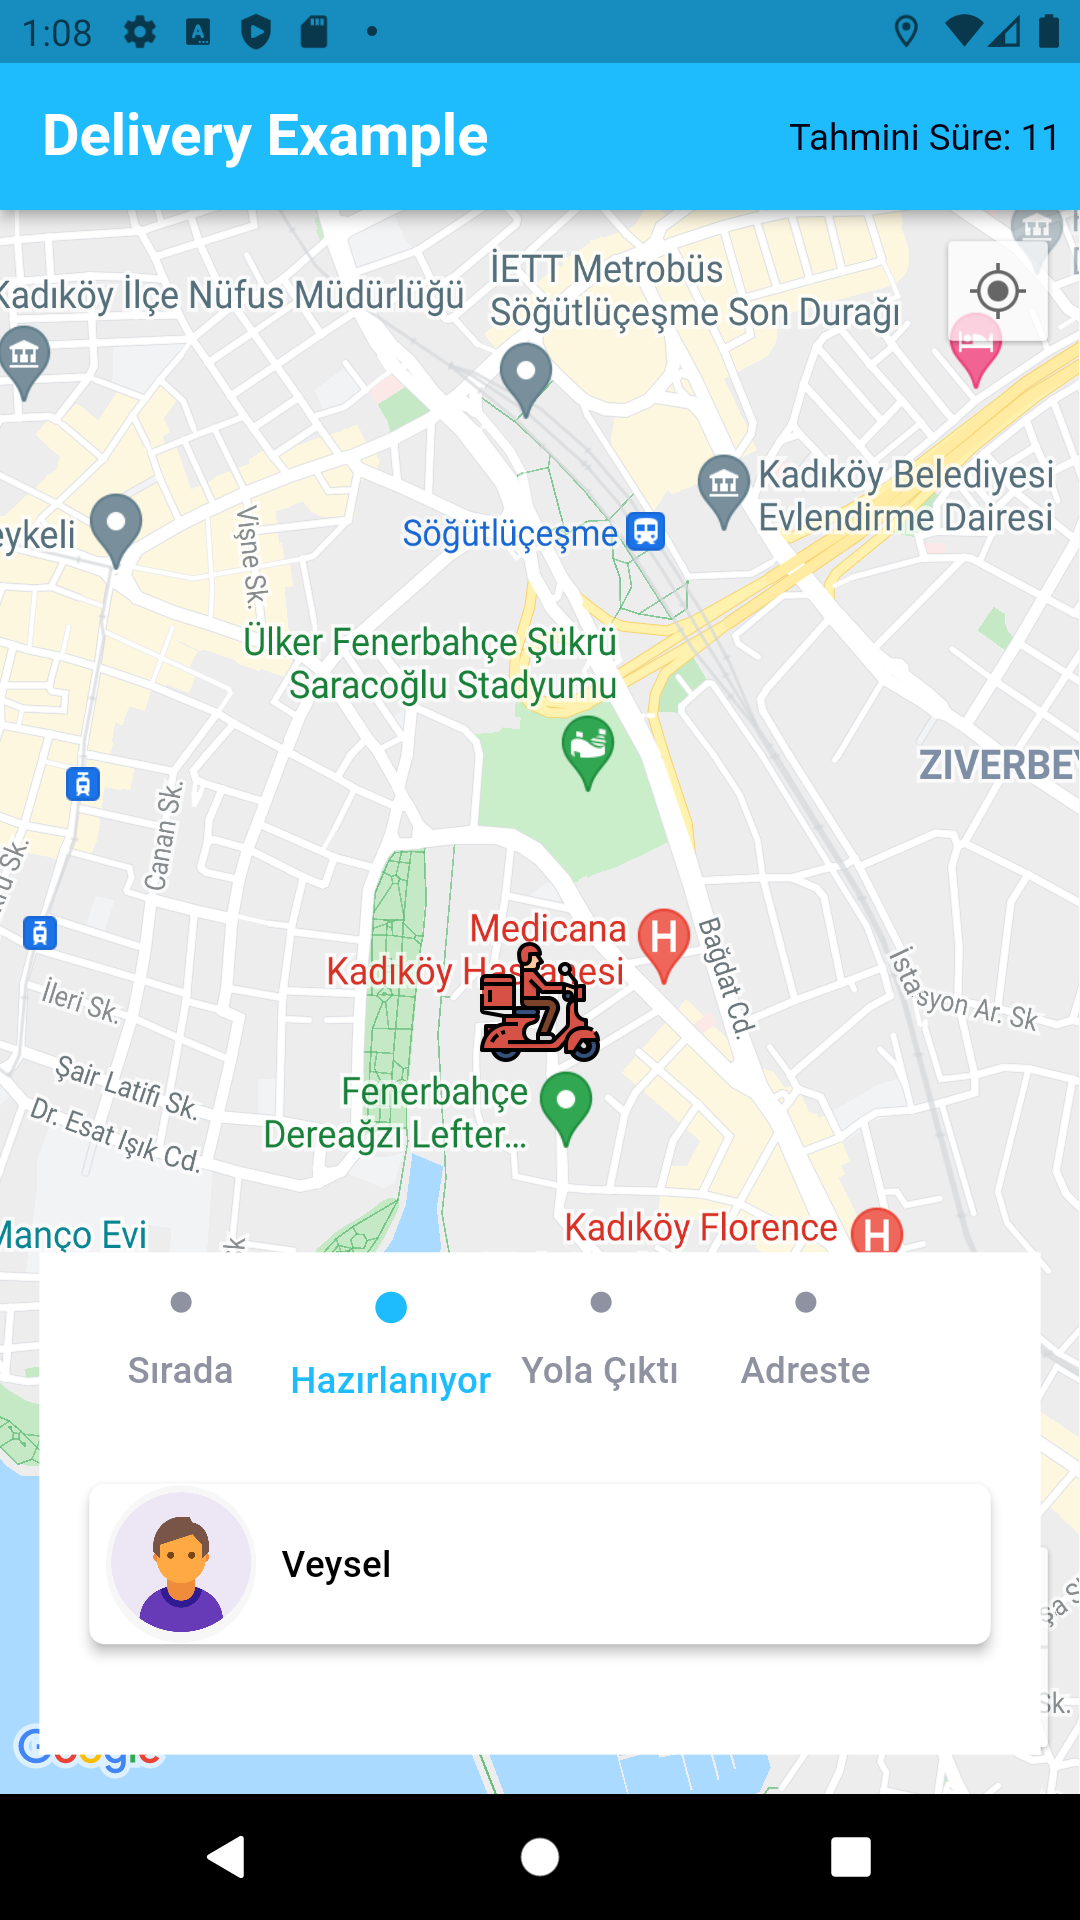
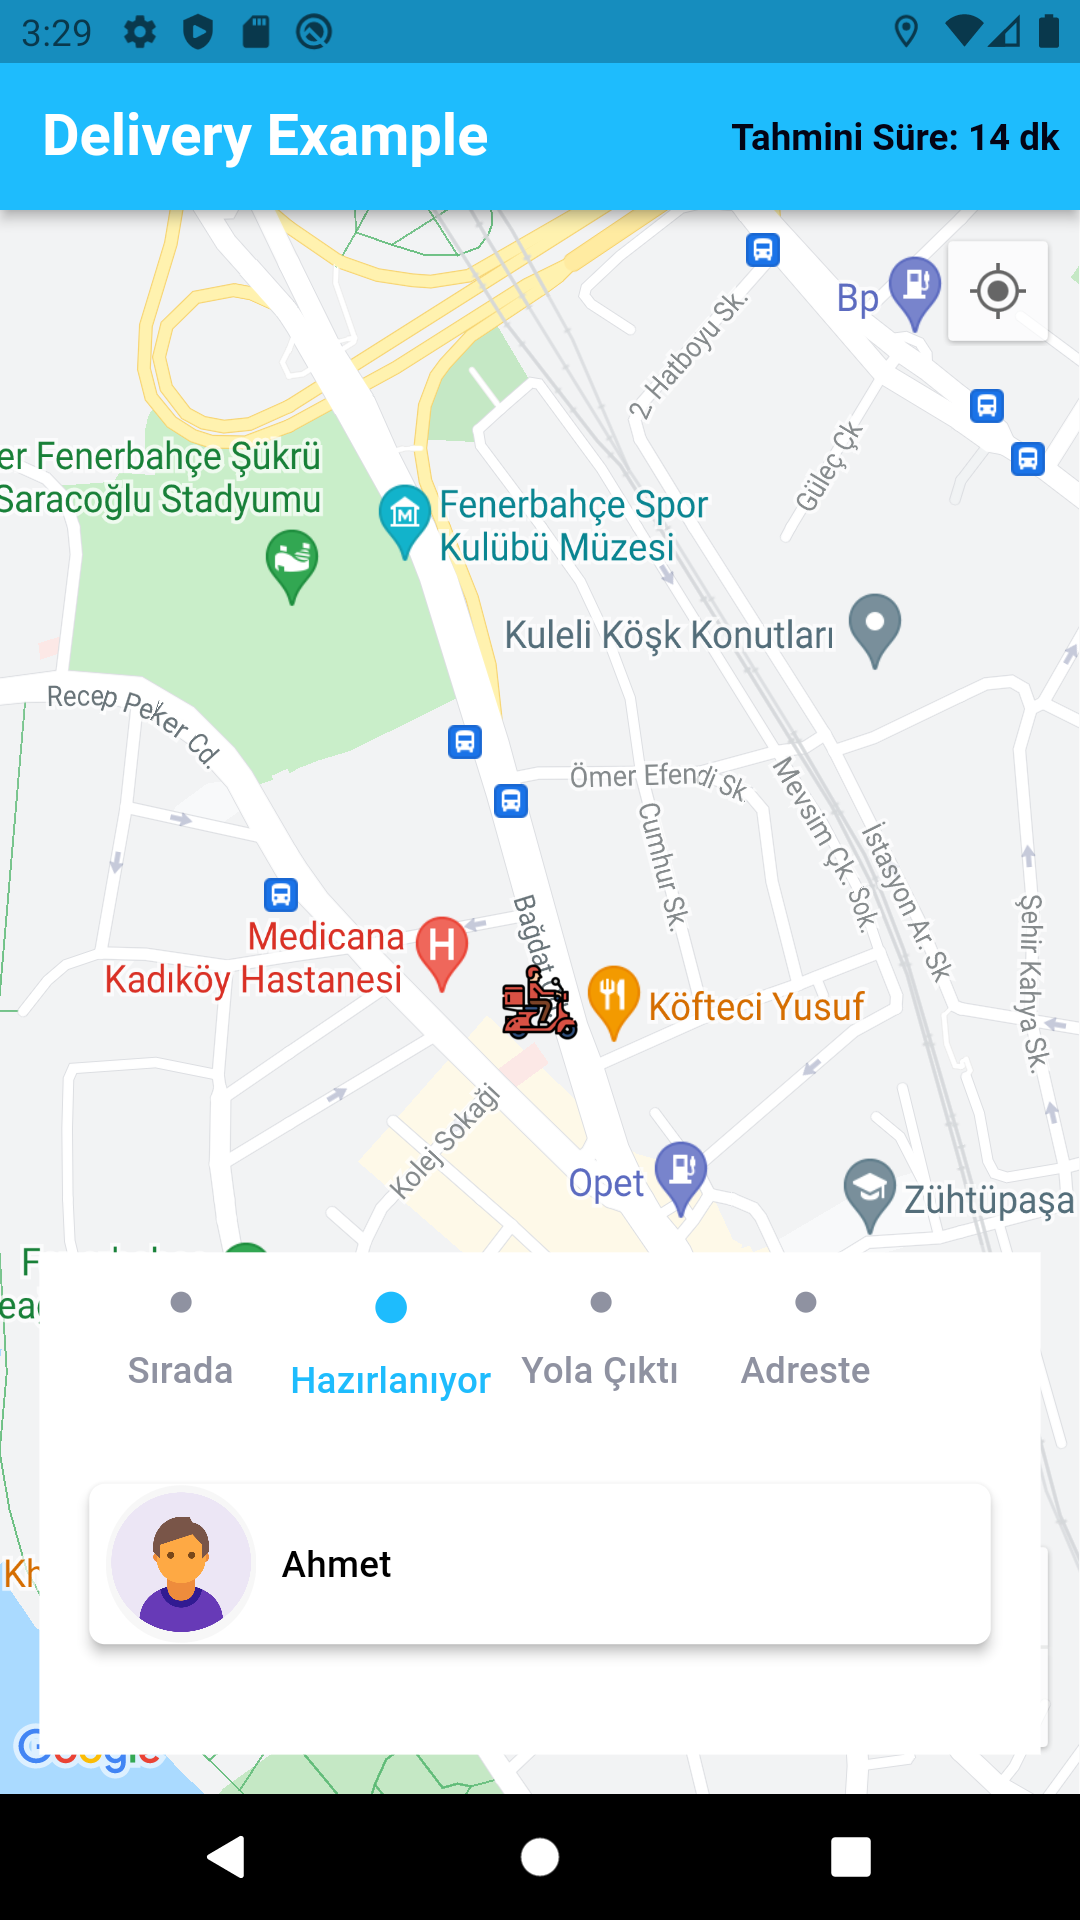
order_model, pusher_service, location_stream_builder sayfalarında düzenleme yapıldı

diff --git a/lib/feature/maps/service/pusher_service.dart b/lib/feature/maps/service/pusher_service.dart
@@ -58,7 +58,7 @@ class PusherService extends IPusherService {
     channel.bind(AppConstants.statusEvent, (PusherEvent? event) {
       log(event?.data ?? '');
       final data = event?.data ?? '';
-      final messenger = OrderStatus.fromJson(json.decode(data)).kurye.toString();
+      final messenger = OrderStatus.fromJson(json.decode(data)).rider.toString();
       statusController.sink.add(messenger);
       // Update Status Card Circle (index e eşit olan circle mavi rengi alır)
       context.read<MapViewModel>().changeStatusListIndex();

diff --git a/lib/feature/maps/widgets/location_stream_builder.dart b/lib/feature/maps/widgets/location_stream_builder.dart
@@ -22,7 +22,7 @@ class LocationStreamBuilder extends StatelessWidget {
         if (snapshot.connectionState == ConnectionState.active && snapshot.hasData) {
           final data = snapshot.data;
           return Center(
-            child: Text('Tahmini Süre: ${data?.estimated.toString() ?? ''}',
+            child: Text('Tahmini Süre: ${data?.estimated.toString() ?? ''} dk',
                 style: context.textTheme.headline4),
           );
         }

diff --git a/lib/feature/maps/model/order_model.dart b/lib/feature/maps/model/order_model.dart
@@ -5,9 +5,9 @@ part 'order_model.g.dart';
 @JsonSerializable(createToJson: false)
 class OrderStatus {
   final String? status;
-  final String? kurye;
+  final String? rider;
 
-  OrderStatus({this.status, this.kurye});
+  OrderStatus({this.status, this.rider});
 
   factory OrderStatus.fromJson(Map<String, dynamic> data) => _$OrderStatusFromJson(data);
 }

diff --git a/lib/feature/maps/model/order_model.g.dart b/lib/feature/maps/model/order_model.g.dart
@@ -8,7 +8,7 @@ part of 'order_model.dart';
 
 OrderStatus _$OrderStatusFromJson(Map<String, dynamic> json) => OrderStatus(
       status: json['status'] as String?,
-      kurye: json['kurye'] as String?,
+      rider: json['rider'] as String?,
     );
 
 LocationModel _$LocationModelFromJson(Map<String, dynamic> json) =>

diff --git a/README.md b/README.md
@@ -10,31 +10,31 @@ uygulamanın çalışabilmesi için [pusher.com ](https://pusher.com/)'dan appKe
 
 #### Uygulama açıldığında;
 
-- location izni istenir,
-- maps_view sayfasında, location_service sayfasında bulunan getPermission methodu çağırılır,
-- maps_view sayfası ekrana gelir,
-- Maps üzerinde bulunan marker Image'ı setlenir,
+- location izni istenir
+- maps_view sayfasında, location_service sayfasında bulunan getPermission methodu çağırılır
+- maps_view sayfası ekrana gelir
+- Maps üzerinde bulunan marker Image'ı setlenir
 
-- pusher_service sayfasından, Status ve Location olmak üzere 2 tane event dinlenir,
+- pusher_service sayfasından, Status ve Location olmak üzere 2 tane event dinlenir
 
 #### Status eventinde olay akışı şu şekilde olur;
 
 channel.bind() methodun'dan her event geldiğinde;
 
-- Stream tipinde oluşturduğum statusController'a bu event mesajı aktarılır,
-- maps_view sayfasında StatusStreamBuilder widgetı ile event mesajı dinlenir,
-- StatusStreamBuilder widgetı ile de DeliveryStatusCardWidget'ına Stream den gelen datayı yollar,
-- LoadingCenter widget'ının yerine, bu widget ekranda oluşturulur.
-- ayrıca map_view_model sayfasında bulunan changeStatusListIndex methodu tetiklenir,
+- Stream tipinde oluşturduğum statusController'a bu event mesajı aktarılır
+- maps_view sayfasında StatusStreamBuilder widgetı ile event mesajı dinlenir
+- StatusStreamBuilder widgetı ile de DeliveryStatusCardWidget'ına Stream den gelen datayı yollar
+- LoadingCenter widget'ının yerine, bu widget ekranda oluşturulur
+- ayrıca map_view_model sayfasında bulunan changeStatusListIndex methodu tetiklenir
 - (view tarafında bu index e eşit olan circle mavi rengi alır, status'ün durumu belli olur)
 
 #### Location eventinde olay akışı şu şekilde olur;
 
-- Stream tipinde oluşturduğum locationController'a bu event mesajı aktarılır,
-- maps_view sayfasında LocationStreamBuilder widgetı ile event mesajı dinlenir,
-- Ekranın üst kısmında olan Tahmini Süre bilgisi ekrana gelir,
-- ayrıca map_view_model sayfasında bulunan updateMarkerLatLng methodu tetiklenir,
-- view tarafında CustomGoogleMaps widgetındaki marker değeri güncellenir, Maps üzerindeki Marker'ın yer değiştirmesi sağlanır.
+- Stream tipinde oluşturduğum locationController'a bu event mesajı aktarılır
+- maps_view sayfasında LocationStreamBuilder widgetı ile event mesajı dinlenir
+- Ekranın üst kısmında olan Tahmini Süre bilgisi ekrana gelir
+- ayrıca map_view_model sayfasında bulunan updateMarkerLatLng methodu tetiklenir
+- view tarafında CustomGoogleMaps widgetındaki marker değeri güncellenir, Maps üzerindeki Marker'ın yer değiştirmesi sağlanır
 
 ## Olay Akışı:
 
@@ -47,7 +47,7 @@ Event: status-update
 
       {
        "status":"Hazırlanıyor",
-       "kurye":"Ahmet"
+       "rider":"Ahmet"
       }
 
 ### Location Eventi json örneği
@@ -56,7 +56,6 @@ Channel: order-1001,
 Event: location-update
 
       {
-        "kurye":"Ahmet",
         "latitude": 40.973488,
         "longitude": 29.039739,
         "estimated": 5
